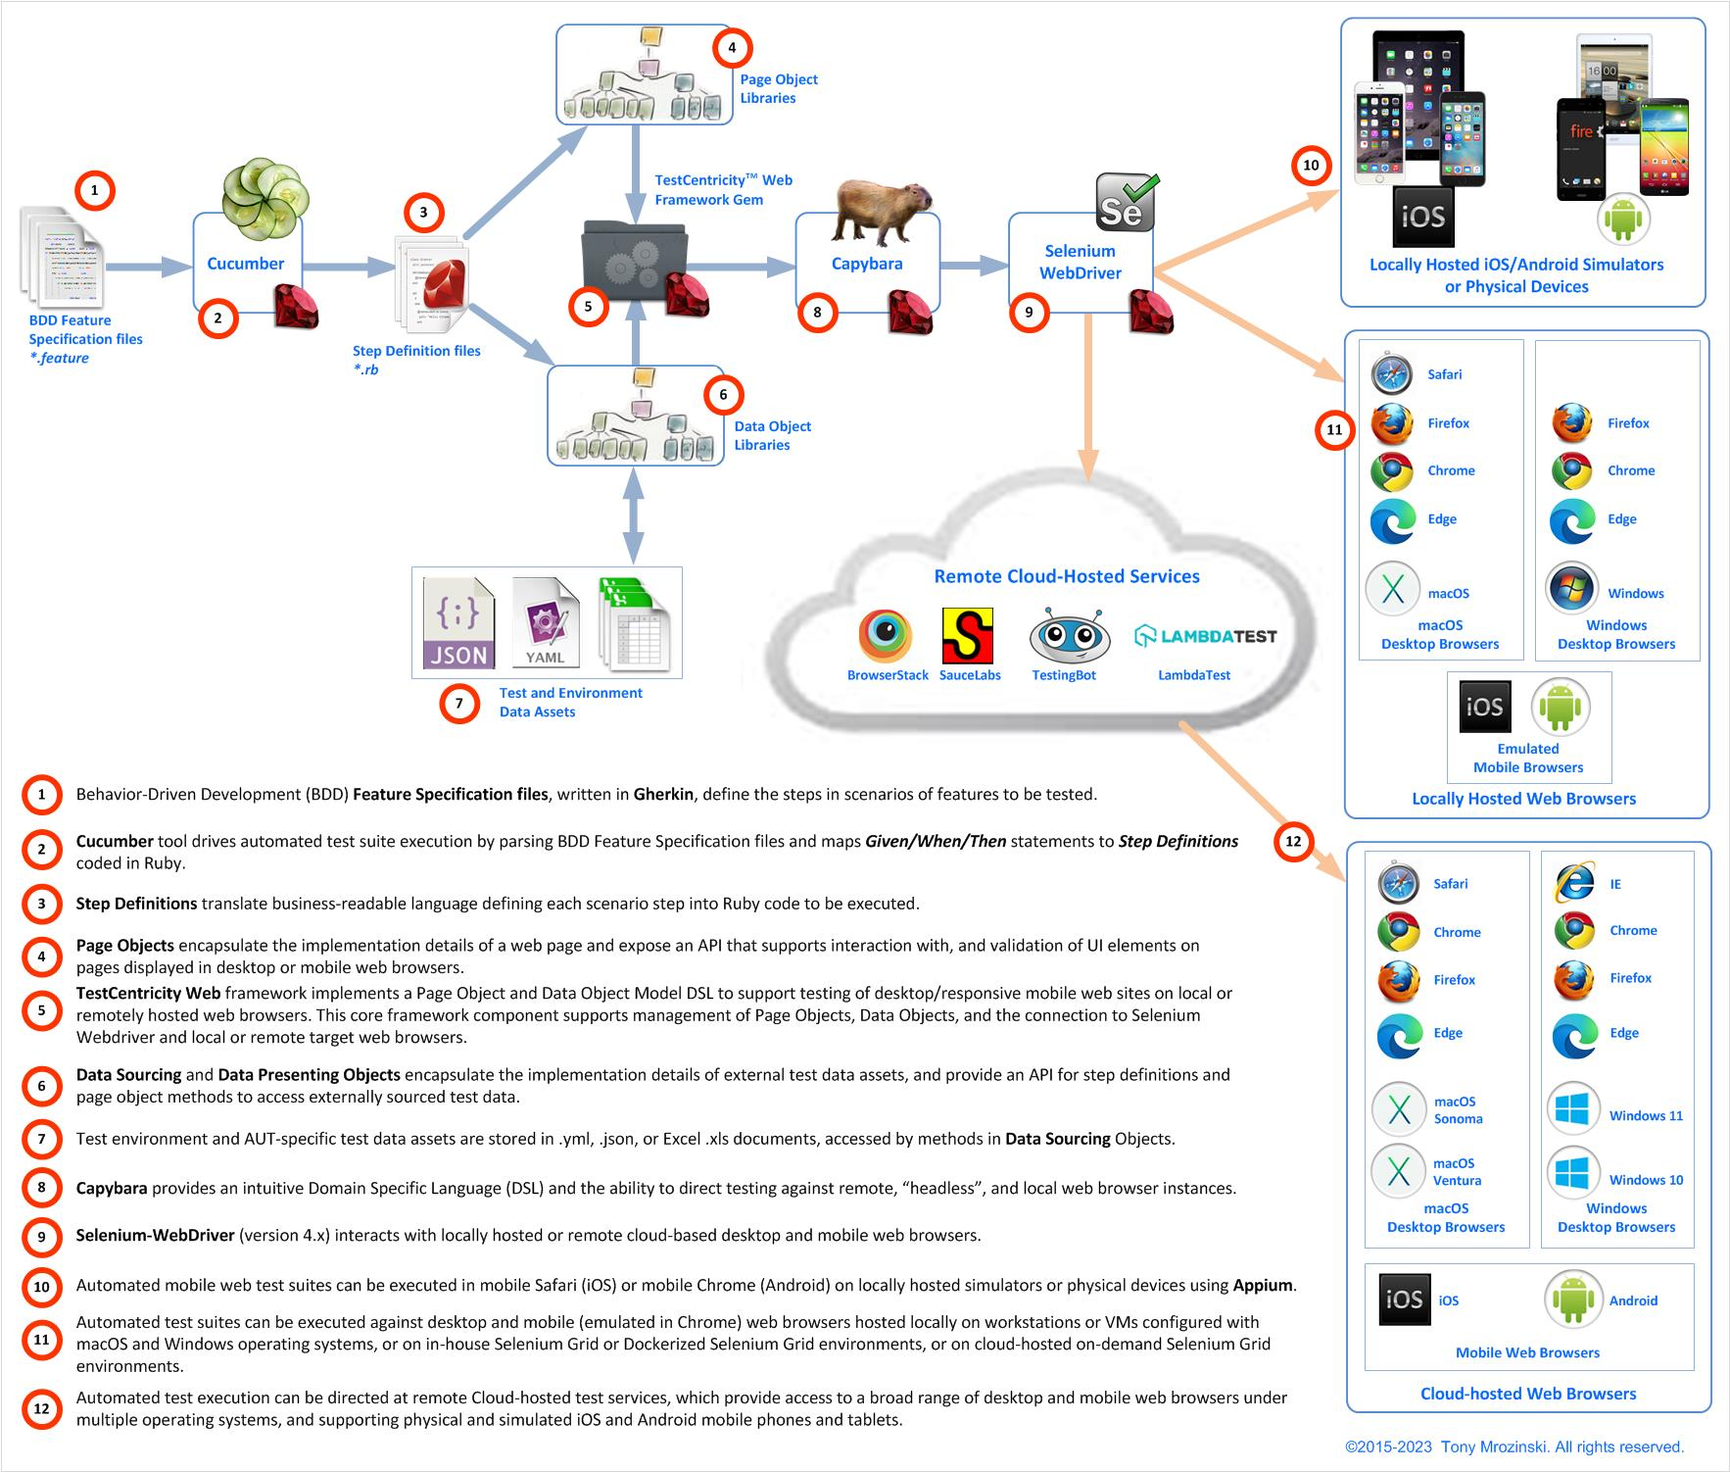
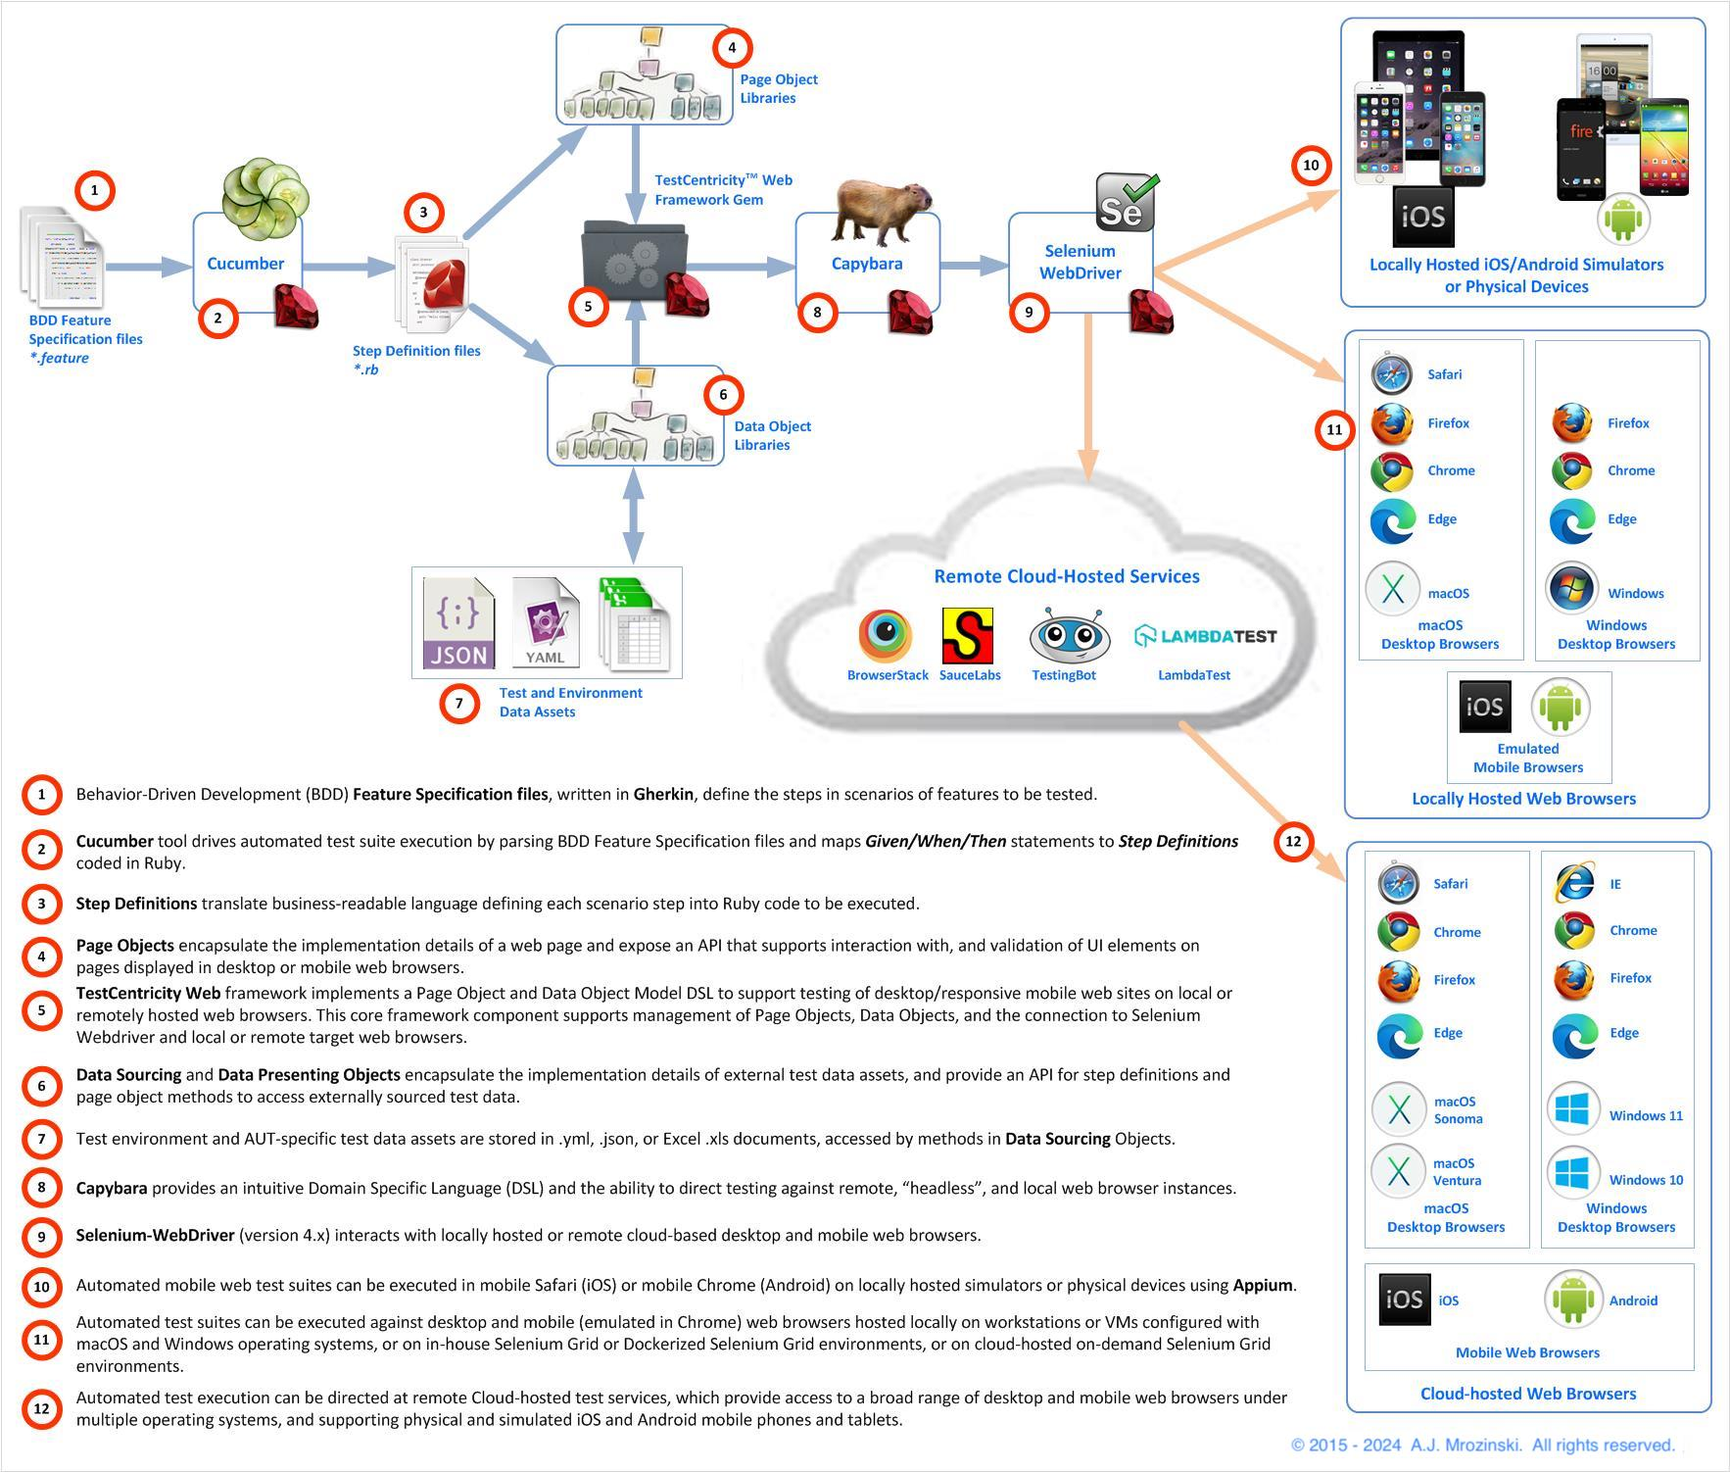
Update documentation and copyright dates (#18)

Changed region(s): [[0.7475, 0.98, 0.9655, 1.0], [0.0311, 0.2144, 0.0623, 0.245]]

diff --git a/README.md b/README.md
@@ -38,6 +38,19 @@ An example project that demonstrates the implementation of a page object model f
 can be found [here](https://github.com/TestCentricity/tc_web_sample).
 
 
+### Which gem should I use?
+
+* The TestCentricity **Web** gem only supports testing of web interfaces via desktop and mobile web browsers
+* The TestCentricity **Mobile** gem only supports testing of native iOS and/or Android mobile apps
+* The TestCentricity gem supports testing of native mobile apps and/or web interfaces via desktop and mobile web browsers.
+
+| Tested platforms                                   | TestCentricity Web | TestCentricity Mobile | TestCentricity |
+|----------------------------------------------------|--------------------|-----------------------|----------------|
+| Desktop/mobile web browsers only                   | Yes                | No                    | No             |
+| Native mobile iOS and/or Android apps only         | No                 | Yes                   | No             |
+| Native mobile apps and desktop/mobile web browsers | No                 | No                    | Yes            |
+
+
 ## Installation
 
 TestCentricity Web version 4.4 and above requires Ruby version 3.0.0 or later. To install the TestCentricity Web gem, add
@@ -1588,7 +1601,7 @@ When using the `options` hash, the following options and capabilities must be sp
     }
     WebDriverConnect.initialize_web_driver(options)
 ```
-ℹ If an optional user defined `driver_name:` is not specified in the `options` hash, the default driver name will be set to
+> ℹ If an optional user defined `driver_name:` is not specified in the `options` hash, the default driver name will be set to
 `:local_<browserName>` - e.g. `:local_chrome` or `:local_edge_headless`.
 
 Below is an example of an `options` hash for specifying a connection to a locally hosted Firefox desktop web browser. The
@@ -1661,7 +1674,7 @@ You can run your tests against mobile device browsers that are emulated within a
 browser on macOS or Windows. The specified mobile browser's user agent, CSS screen dimensions, and default screen orientation
 will be automatically set within the local Chrome browser instance. You may also specify the emulated device's screen orientation.
 
-⚠ For best results when testing against mobile web browsers, you should run your tests against iOS and Android simulators
+> ⚠ For best results when testing against mobile web browsers, you should run your tests against iOS and Android simulators
 or physical devices, either hosted locally or via a remotely cloud hosted service.
 
 For locally hosted emulated mobile web browsers, the `WEB_BROWSER` Environment Variable must be set to one of the values
@@ -1748,7 +1761,7 @@ To change the emulated device's screen orientation from the default setting, set
     }
     WebDriverConnect.initialize_web_driver(options)
 
-ℹ If an optional user defined `driver_name:` is not specified in the `options` hash, the default driver name will be set to
+> ℹ If an optional user defined `driver_name:` is not specified in the `options` hash, the default driver name will be set to
 `:local_<browserName>` - e.g. `:local_ipad_pro_12_9` or `:local_pixel_6`.
 
 Below is an example of an `options` hash for specifying a connection to a locally hosted emulated mobile Safari web browser
@@ -1845,10 +1858,10 @@ When using the `options` hash, the following options and capabilities must be sp
     }
     WebDriverConnect.initialize_web_driver(options)
 ```
-ℹ If an optional user defined `driver_name:` is not specified in the `options` hash, the default driver name will be set to
+>ℹ If an optional user defined `driver_name:` is not specified in the `options` hash, the default driver name will be set to
 `:remote_<browserName>` - e.g. `:remote_chrome` or `:remote_edge_headless`.
-
-ℹ If an `endpoint:` is not specified in the `options`hash, then the default remote endpoint URL of `http://localhost:4444/wd/hub`
+> 
+> ℹ If an `endpoint:` is not specified in the `options`hash, then the default remote endpoint URL of `http://localhost:4444/wd/hub`
 will be used.
 
 Below is an example of an `options` hash for specifying a connection to a grid hosted Chrome desktop web browser. The
@@ -1939,10 +1952,10 @@ When using the `options` hash, the following options and capabilities must be sp
     }
     WebDriverConnect.initialize_web_driver(options)
 ```
-ℹ If an optional user defined `driver_name:` is not specified in the `options` hash, the default driver name will be set to
+> ℹ If an optional user defined `driver_name:` is not specified in the `options` hash, the default driver name will be set to
 `appium_safari`.
-
-ℹ If an `endpoint:` is not specified in the `options` hash, then the default remote endpoint URL of `http://localhost:4723/wd/hub`
+> 
+> ℹ If an `endpoint:` is not specified in the `options` hash, then the default remote endpoint URL of `http://localhost:4723/wd/hub`
 will be used.
 
 Below is an example of an `options` hash for specifying a connection to a locally hosted mobile Safari web browser running
@@ -1969,7 +1982,8 @@ orientation to portrait mode.
 
 You can run your mobile web tests against the mobile Chrome or Android browser on emulated Android devices using Appium and
 Android Studio on macOS. You must install Android Studio, the desired Android version-specific virtual device emulators, and
-Appium. Refer to [this page](https://appium.io/docs/en/2.2/quickstart/uiauto2-driver/) for information on configuring Appium to work with the Android SDK.
+Appium. Refer to [this page](https://appium.io/docs/en/2.2/quickstart/uiauto2-driver/) for information on configuring Appium to work with the Android SDK. Refer to [this page](https://github.com/appium/appium-uiautomator2-driver)
+for information regarding specifying  Appium capabilities that are specific to the UiAutomator2 driver.
 
 The Appium server must be running prior to invoking Cucumber to run your features/scenarios. Refer to [**section 8.6.3 (Starting and Stopping Appium Server)**](#starting-and-stopping-appium-server) below.
 
@@ -2025,10 +2039,10 @@ When using the `options` hash, the following options and capabilities must be sp
     }
     WebDriverConnect.initialize_web_driver(options)
 ```
-ℹ If an optional user defined `driver_name:` is not specified in the `options` hash, the default driver name will be set to
+> ℹ If an optional user defined `driver_name:` is not specified in the `options` hash, the default driver name will be set to
 `appium_chrome`.
-
-ℹ If an `endpoint:` is not specified in the `options` hash, then the default remote endpoint URL of `http://localhost:4723/wd/hub`
+> 
+> ℹ If an `endpoint:` is not specified in the `options` hash, then the default remote endpoint URL of `http://localhost:4723/wd/hub`
 will be used.
 
 Below is an example of an `options` hash for specifying a connection to a locally hosted mobile Chrome web browser running
@@ -2120,9 +2134,9 @@ method upon completion of your test suite to stop the Local instance. Place the 
 
 #### Remote Desktop Browsers on the BrowserStack Service
 
-For remotely hosted desktop web browsers on the BrowserStack service, refer to the [Browserstack-specific capabilities chart page](https://www.browserstack.com/automate/capabilities?tag=selenium-4)
+For remotely hosted desktop web browsers on the BrowserStack service, refer to the [Browserstack-specific capabilities chart page](https://www.browserstack.com/docs/automate/capabilities)
 for information regarding the options and capabilities available for the various supported desktop operating systems and
-web browsers.
+web browsers. Select the **Legacy** Integration method tab and the **W3C Protocol** tab on the capabilities page.
 
 ##### BrowserStack Desktop Browser using Environment Variables
 
@@ -2172,12 +2186,12 @@ When using the `options` hash, the following options and capabilities must be sp
     }
     WebDriverConnect.initialize_web_driver(options)
 ```
-ℹ If an optional user defined `driver_name:` is not specified in the `options` hash, the default driver name will be set to
+> ℹ If an optional user defined `driver_name:` is not specified in the `options` hash, the default driver name will be set to
 `:browserstack_<browserName>` - e.g. `:browserstack_chrome` or `:browserstack_safari`.
-
-ℹ If an `endpoint:` is not specified in the `options` hash, then the default remote endpoint URL will be set to the following:
-
-`https://#{ENV['BS_USERNAME']}:#{ENV['BS_AUTHKEY']}@hub-cloud.browserstack.com/wd/hub`
+> 
+> ℹ If an `endpoint:` is not specified in the `options` hash, then the default remote endpoint URL will be set to the following:
+> 
+> `https://#{ENV['BS_USERNAME']}:#{ENV['BS_AUTHKEY']}@hub-cloud.browserstack.com/wd/hub`
 
 This default endpoint requires that the `BS_USERNAME` Environment Variable is set to your BrowserStack account user name and
 the `BS_AUTHKEY` Environment Variable is set to your BrowserStack access key.
@@ -2216,9 +2230,9 @@ test configuration options.
 
 #### Remote Mobile Browsers on the BrowserStack Service
 
-For remotely hosted mobile web browsers on the BrowserStack service, refer to the [Browserstack-specific capabilities chart page](https://www.browserstack.com/automate/capabilities?tag=selenium-4)
+For remotely hosted mobile web browsers on the BrowserStack service, refer to the [Browserstack-specific capabilities chart page](https://www.browserstack.com/docs/automate/capabilities)
 for information regarding the options and capabilities available for the various supported mobile operating systems, devices,
-and web browsers.
+and web browsers. Select the **Legacy** Integration method tab and the **W3C Protocol** tab on the capabilities page.
 
 ##### BrowserStack Mobile Browser using Environment Variables
 
@@ -2269,12 +2283,12 @@ When using the `options` hash, the following options and capabilities must be sp
     }
     WebDriverConnect.initialize_web_driver(options)
 ```
-ℹ If an optional user defined `driver_name:` is not specified in the `options` hash, the default driver name will be set to
+> ℹ If an optional user defined `driver_name:` is not specified in the `options` hash, the default driver name will be set to
 `:browserstack_<browserName>` - e.g. `:browserstack_chrome` or `:browserstack_safari`.
-
-ℹ If an `endpoint:` is not specified in the `options` hash, then the default remote endpoint URL will be set to the following:
-
-`https://#{ENV['BS_USERNAME']}:#{ENV['BS_AUTHKEY']}@hub-cloud.browserstack.com/wd/hub`
+> 
+> ℹ If an `endpoint:` is not specified in the `options` hash, then the default remote endpoint URL will be set to the following:
+>
+> `https://#{ENV['BS_USERNAME']}:#{ENV['BS_AUTHKEY']}@hub-cloud.browserstack.com/wd/hub`
 
 This default endpoint requires that the `BS_USERNAME` Environment Variable is set to your BrowserStack account user name and
 the `BS_AUTHKEY` Environment Variable is set to your BrowserStack access key.
@@ -2358,12 +2372,12 @@ When using the `options` hash, the following options and capabilities must be sp
     }
     WebDriverConnect.initialize_web_driver(options)
 ```
-ℹ If an optional user defined `driver_name:` is not specified in the `options` hash, the default driver name will be set to
+> ℹ If an optional user defined `driver_name:` is not specified in the `options` hash, the default driver name will be set to
 `:saucelabs_<browserName>` - e.g. `:saucelabs_chrome` or `:saucelabs_safari`.
-
-ℹ If an `endpoint:` is not specified in the `options` hash, then the default remote endpoint URL will be set to the following:
-
-`https://#{ENV['SL_USERNAME']}:#{ENV['SL_AUTHKEY']}@ondemand.#{ENV['SL_DATA_CENTER']}.saucelabs.com:443/wd/hub`
+>
+> ℹ If an `endpoint:` is not specified in the `options` hash, then the default remote endpoint URL will be set to the following:
+>
+> `https://#{ENV['SL_USERNAME']}:#{ENV['SL_AUTHKEY']}@ondemand.#{ENV['SL_DATA_CENTER']}.saucelabs.com:443/wd/hub`
 
 This default endpoint requires that the `SL_USERNAME` Environment Variable is set to your Sauce Labs account user name, the
 `SL_AUTHKEY` Environment Variable is set to your Sauce Labs access key, and the `SL_DATA_CENTER` Environment Variable is
@@ -2451,12 +2465,12 @@ When using the `options` hash, the following options and capabilities must be sp
     }
     WebDriverConnect.initialize_web_driver(options)
 ```
-ℹ If an optional user defined `driver_name:` is not specified in the `options` hash, the default driver name will be set to
+> ℹ If an optional user defined `driver_name:` is not specified in the `options` hash, the default driver name will be set to
 `:saucelabs_<browserName>` - e.g. `:saucelabs_chrome` or `:saucelabs_safari`.
-
-ℹ If an `endpoint:` is not specified in the `options` hash, then the default remote endpoint URL will be set to the following:
-
-`https://#{ENV['SL_USERNAME']}:#{ENV['SL_AUTHKEY']}@ondemand.#{ENV['SL_DATA_CENTER']}.saucelabs.com:443/wd/hub`
+> 
+> ℹ If an `endpoint:` is not specified in the `options` hash, then the default remote endpoint URL will be set to the following:
+> 
+> `https://#{ENV['SL_USERNAME']}:#{ENV['SL_AUTHKEY']}@ondemand.#{ENV['SL_DATA_CENTER']}.saucelabs.com:443/wd/hub`
 
 This default endpoint requires that the `SL_USERNAME` Environment Variable is set to your Sauce Labs account user name, the
 `SL_AUTHKEY` Environment Variable is set to your Sauce Labs access key, and the `SL_DATA_CENTER` Environment Variable is
@@ -2532,12 +2546,12 @@ When using the `options` hash, the following options and capabilities must be sp
     }
     WebDriverConnect.initialize_web_driver(options)
 ```
-ℹ If an optional user defined `driver_name:` is not specified in the `options` hash, the default driver name will be set to
+> ℹ If an optional user defined `driver_name:` is not specified in the `options` hash, the default driver name will be set to
 `:testingbot_<browserName>` - e.g. `:testingbot_chrome` or `:testingbot_microsoftedge`.
-
-ℹ If an `endpoint:` is not specified in the `options` hash, then the default remote endpoint URL will be set to the following:
-
-`https://#{ENV['TB_USERNAME']}:#{ENV['TB_AUTHKEY']}@hub.testingbot.com/wd/hub`
+> 
+> ℹ If an `endpoint:` is not specified in the `options` hash, then the default remote endpoint URL will be set to the following:
+> 
+> `https://#{ENV['TB_USERNAME']}:#{ENV['TB_AUTHKEY']}@hub.testingbot.com/wd/hub`
 
 This default endpoint requires that the `TB_USERNAME` Environment Variable is set to your TestingBot account user name and
 the `TB_AUTHKEY` Environment Variable is set to your TestingBot access key.
@@ -2616,12 +2630,12 @@ When using the `options` hash, the following options and capabilities must be sp
     }
     WebDriverConnect.initialize_web_driver(options)
 ```
-ℹ If an optional user defined `driver_name:` is not specified in the `options` hash, the default driver name will be set to
+> ℹ If an optional user defined `driver_name:` is not specified in the `options` hash, the default driver name will be set to
 `:testingbot_<browserName>` - e.g. `:testingbot_chrome` or `:testingbot_safari`.
-
-ℹ If an `endpoint:` is not specified in the `options` hash, then the default remote endpoint URL will be set to the following:
-
-`https://#{ENV['TB_USERNAME']}:#{ENV['TB_AUTHKEY']}@hub.testingbot.com/wd/hub`
+> 
+> ℹ If an `endpoint:` is not specified in the `options` hash, then the default remote endpoint URL will be set to the following:
+> 
+> `https://#{ENV['TB_USERNAME']}:#{ENV['TB_AUTHKEY']}@hub.testingbot.com/wd/hub`
 
 This default endpoint requires that the `TB_USERNAME` Environment Variable is set to your TestingBot account user name and
 the `TB_AUTHKEY` Environment Variable is set to your TestingBot access key.
@@ -2698,12 +2712,12 @@ When using the `options` hash, the following options and capabilities must be sp
     }
     WebDriverConnect.initialize_web_driver(options)
 ```
-ℹ If an optional user defined `driver_name:` is not specified in the `options` hash, the default driver name will be set to
+> ℹ If an optional user defined `driver_name:` is not specified in the `options` hash, the default driver name will be set to
 `:lambdatest_<browserName>` - e.g. `:lambdatest_chrome` or `:lambdatest_safari`.
-
+> 
 ℹ If an `endpoint:` is not specified in the `options` hash, then the default remote endpoint URL will be set to the following:
-
-`https://#{ENV['LT_USERNAME']}:#{ENV['LT_AUTHKEY']}@hub.lambdatest.com/wd/hub`
+> 
+> `https://#{ENV['LT_USERNAME']}:#{ENV['LT_AUTHKEY']}@hub.lambdatest.com/wd/hub`
 
 This default endpoint requires that the `LT_USERNAME` Environment Variable is set to your LambdaTest account user name and
 the `LT_AUTHKEY` Environment Variable is set to your LambdaTest access key.
@@ -2760,7 +2774,7 @@ All other required capabilities specified by the hosting service configuration d
     }
     WebDriverConnect.initialize_web_driver(options)
 
-ℹ If an optional user defined `driver_name:` is not specified in the `options` hash, the default driver name will be set to
+> ℹ If an optional user defined `driver_name:` is not specified in the `options` hash, the default driver name will be set to
 `:custom_<browserName>` - e.g. `:custom_chrome` or `:custom_safari`.
 
 Prior to calling the `TestCentricity::WebDriverConnect.initialize_web_driver` method, you must set `Environ.platform` to
@@ -2842,7 +2856,7 @@ these in in your`cucumber.yml` file). Before you can use the BrowserStack, Sauce
 you will need to replace the *INSERT USER NAME HERE* and *INSERT PASSWORD HERE* placeholder text with your user account
 and authorization code for the cloud service(s) that you intend to connect with.
 
-⚠ Cloud service credentials should not be stored as text in your `cucumber.yml` file where it can be exposed by anyone
+> ⚠ Cloud service credentials should not be stored as text in your `cucumber.yml` file where it can be exposed by anyone
 with access to your version control system.
 
 
@@ -3126,7 +3140,7 @@ area sub-folders as needed. Likewise, `PageSection` class definitions should be 
 ---
 ## Copyright and License
 
-TestCentricity™ Framework is Copyright (c) 2014-2023, Tony Mrozinski.
+TestCentricity™ Framework is Copyright (c) 2014-2024, Tony Mrozinski.
 All rights reserved.
 
 Redistribution and use in source and binary forms, with or without modification, are permitted provided that the following

diff --git a/LICENSE.md b/LICENSE.md
@@ -1,4 +1,4 @@
-Copyright (c) 2014-2023, Tony Mrozinski
+Copyright (c) 2014-2024, Tony Mrozinski
 All rights reserved.
 
 Redistribution and use in source and binary forms, with or without
